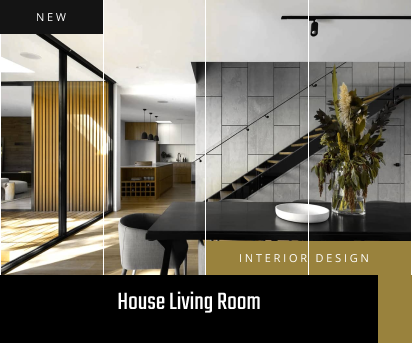
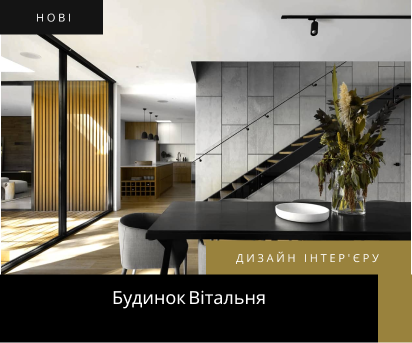
translate all sec

diff --git a/index.html b/index.html
@@ -49,7 +49,7 @@
 
                         <div class="header__desc-block desc-block">
                             <div class="desc-block__up-title">студія vantage</div>
-                            <div class="desc-block__title">Your vision, our expertise!</div>
+                            <div class="desc-block__title">Ваше бачення, наша експертиза!</div>
                             <p class="desc-block__desc">Lorem ipsum dolor sit amet, consectetur 
                                 adipiscing elit. Proin vehicula, libero vel 
                                 egestas fringilla.
@@ -72,8 +72,8 @@
     
                     <div class="menu__body">
                         <div class="menu__architecture">
-                            <span class="menu__text-arc">Architecture</span>
-                            <span class="menu__text-mw">Made With</span>
+                            <span class="menu__text-arc">Архітектура</span>
+                            <span class="menu__text-mw">Зроблена з</span>
                             <img class="menu__img-heart" src="assets/img/menu/heart.png" alt="heart">
                         </div>
     
@@ -120,23 +120,23 @@
 
                         <div class="about-us__content">
                             <div class="about-us__category">ПРО НАС</div>
-                            <div class="about-us__title">It's our job to make your home feel like it belongs to you</div>
+                            <div class="about-us__title">Наша робота - зробити так,<br> щоб ваш дім був вашим</div>
                             <div class="about-us__text">
-                                <p class="about-us__par">Lorem ipsum dolor sit amet, consectetur adipiscing elit. Proin vehicula, libero vel egestas fringilla, purus sit amet ante vel odio condimentum tortor.</p>
+                                <p class="about-us__par">Ми молода і амбітна компанія з Норвегнії. Яка вже завоювала серця багатьох клієнтів і компаній. На всі наші товари та послуги йде гарантія протягом 5 років. Ми виконуємо роботу від планування до встановлення. Робимо швидко та якісно, а головне за ціну, яка не кусається :)</p>
                                 
-                                <p class="about-us__par">Lorem ipsum dolor sit amet, consectetur adipiscing elit. Suspendisse a risus ac mauris cursus tempor at sit amet orci. Suspendisse vel laoreet mauris. Donec sit amet ante vel odio condimentum lobortis in nec ex. Curabitur varius iaculis vehicula. Vestibulum quis venenatis lorem at, suscipit vel mauris purus.</p>
+                                <p class="about-us__par">Якість наших меблів та послуг на високому рівні, що підтверджується відгуками клієнтів та документацією, і цю тенденцію ми не збираємося зупиняти. Також наш асортимент періодично поповнюється новими ескізами, а якщо не знайшли, який вам сподобався, тож ви завжди можете обговорити свої ідеї з нашими архітекторами.</p>
                             </div>
                         </div>
 
                         <div class="about-us__news news">
                             <div class="news__item">
-                                <div class="news__category">NEWS &#183; MAR 1. 2022</div>
-                                <div class="news__text">Incidunt eveniet lorem adipisci quod est quaerat</div>
+                                <div class="news__category">НОВИНИ &#183; 5 ЛИСТОПАДА. 2022</div>
+                                <div class="news__text">Отримали лiцензiю "Architecture award"!</div>
                             </div>
 
                             <div class="news__item">
-                                <div class="news__category">NEWS &#183; MAR 1. 2022</div>
-                                <div class="news__text">Excepturi nulla lorem quam velit error qui dolor</div>
+                                <div class="news__category">НОВИНИ &#183; 10 ГРУДНЯ. 2022</div>
+                                <div class="news__text">Нова колекцiя "Зимова вишня" вже в нашому магазинi</div>
                             </div>
                         </div>
 
@@ -147,35 +147,35 @@
                     <div class="statistic__container">
                         <div class="statistic__item -pos-left">
                             <div class="statistic__number">200</div>
-                            <div class="statistic__text">PROJECT</div>
+                            <div class="statistic__text">ПРОЕКТІВ</div>
                         </div>
                         <div class="statistic__item">
                             <div class="statistic__block"></div>
                         </div>
                         <div class="statistic__item -pos-right">
                             <div class="statistic__number">250</div>
-                            <div class="statistic__text">SKETCHES</div>
+                            <div class="statistic__text">ЕСКІЗІВ</div>
                         </div>
                         <div class="statistic__item">
                             <div class="statistic__block"></div>
                         </div>
                         <div class="statistic__item -pos-left">
                             <div class="statistic__number">2500</div>
-                            <div class="statistic__text">CLIENTS</div>
+                            <div class="statistic__text">КЛІЄНТІВ</div>
                         </div>
                         <div class="statistic__item -dis">
                             <div class="statistic__block"></div>
                         </div>
                         <div class="statistic__item -pos-right">
                             <div class="statistic__number">95%</div>
-                            <div class="statistic__text">LIKES</div>
+                            <div class="statistic__text">ВПОДОБАЙОК</div>
                         </div>
                         <div class="statistic__item -dis">
                             <div class="statistic__block"></div>
                         </div>
                         <div class="statistic__item">
                             <div class="statistic__number">10</div>
-                            <div class="statistic__text">AWARDS</div>
+                            <div class="statistic__text">НАГОРОД</div>
                         </div>
                     </div>
                 </div>
@@ -188,7 +188,7 @@
 
                     <div class="projects__category">ПРОЕКТИ</div>
                     <div class="projects__title">
-                        Our Projects Examples
+                        Приклади проектів
                     </div>
 
                     <div class="projects__body">

diff --git a/assets/css/style.css b/assets/css/style.css
@@ -441,7 +441,7 @@ body {
   gap: 5px;
 }
 .menu__text-arc {
-  margin-top: 2px;
+  margin-top: 1px;
 
   color: rgba(255, 255, 255, 0.75);
 
@@ -490,9 +490,9 @@ body {
 
   text-transform: capitalize;
 
-  font-family: "Teko", sans-serif;
+  font-family: "Oswald", sans-serif;
   font-weight: 400;
-  line-height: 67px;
+  line-height: 60px;
 }
 .desc-block__desc {
   color: #141414;
@@ -771,7 +771,7 @@ body {
 
   color: #141414;
 
-  font-family: "Teko";
+  font-family: "Oswald";
   font-weight: 400;
   font-style: normal;
   line-height: 1em;
@@ -821,11 +821,9 @@ body {
   line-height: 1.5454em;
 }
 .news__text {
-  text-transform: capitalize;
-
   color: #141414;
 
-  font-family: "Teko";
+  font-family: "Oswald";
   font-size: 1.444rem;
   font-weight: 400;
   font-style: normal;
@@ -881,7 +879,7 @@ body {
 
   color: #141414;
 
-  font-family: "Teko";
+  font-family: "Oswald";
   font-size: 59px;
   font-weight: 700;
   font-style: normal;
@@ -976,8 +974,9 @@ body {
   margin-bottom: 25px;
 
   text-align: center;
+  text-transform: capitalize;
 
-  font-family: "Teko", sans-serif;
+  font-family: "Oswald", sans-serif;
   font-weight: 400;
 }
 .projects__body {
@@ -1037,6 +1036,8 @@ body {
 
   width: 100%;
   margin-top: 50px;
+
+  text-align: center;
 }
 .services__link {
   padding: 20px 80px;
@@ -1485,7 +1486,7 @@ body {
 
 @media (min-width: 767px) {
   .desc-block__title {
-    font-size: calc(45px + 22 * (100vw / 1440));
+    font-size: calc(45px + 15 * (100vw / 1440));
   }
   .desc-block__desc {
     font-size: calc(15px + 2 * (100vw / 1440));
@@ -1494,13 +1495,13 @@ body {
     font-size: calc(14px + 2 * (100vw / 1440));
   }
   .about-us__title {
-    font-size: calc(33px + 20 * (100vw / 1440));
+    font-size: calc(30px + 18 * (100vw / 1440));
   }
   .about-us__par {
     font-size: calc(16px + 1 * (100vw / 1440));
   }
   .projects__title {
-    font-size: calc(39px + 21 * (100vw / 1440));
+    font-size: calc(39px + 16 * (100vw / 1440));
   }
   .services__title {
     font-size: calc(30px + 20 * (100vw / 1440));
@@ -1587,12 +1588,18 @@ body {
     position:         sticky;
     right: 0;
   }
+  .desc-block__up-title {
+    text-align: center;
+  }
+  .desc-block__title {
+    text-align: center;
+  }
   .slides-body__img {
     -o-object-fit: cover;
        object-fit: cover;
   }
   .about-us {
-    padding-top: 80px;
+    padding-top: 40px;
   }
   .about-us__content {
     padding: 30px;
@@ -1673,7 +1680,7 @@ body {
     width: 100px;
   }
   .about-us {
-    padding-top: 50px;
+    padding-top: 30px;
   }
   .about-us__category {
     text-align: center;
@@ -1747,7 +1754,7 @@ body {
 
 @media (max-width: 767px) {
   .desc-block__title {
-    font-size: calc(45px + 22 * ((100vw - 320px) / 1440));
+    font-size: calc(45px + 15 * ((100vw - 320px) / 1440));
   }
   .desc-block__desc {
     font-size: calc(15px + 2 * ((100vw - 320px) / 1440));
@@ -1756,13 +1763,13 @@ body {
     font-size: calc(14px + 2 * ((100vw - 320px) / 1440));
   }
   .about-us__title {
-    font-size: calc(33px + 20 * ((100vw - 320px) / 1440));
+    font-size: calc(30px + 18 * ((100vw - 320px) / 1440));
   }
   .about-us__par {
     font-size: calc(16px + 1 * ((100vw - 320px) / 1440));
   }
   .projects__title {
-    font-size: calc(39px + 21 * ((100vw - 320px) / 1440));
+    font-size: calc(39px + 16 * ((100vw - 320px) / 1440));
   }
   .services__title {
     font-size: calc(30px + 20 * ((100vw - 320px) / 1440));
@@ -1797,7 +1804,7 @@ body {
   .desc-block__title {
     margin: 18px 0 10px 0;
 
-    line-height: 35px;
+    line-height: 45px;
   }
   .desc-block__buttons {
     -webkit-box-orient: vertical;
@@ -1831,7 +1838,7 @@ body {
     width: 45px;
   }
   .about-us {
-    padding-top: 30px;
+    padding-top: 25px;
   }
   .about-us__content {
     padding: 0;

diff --git a/assets/scss/components/sections/_about-us.scss b/assets/scss/components/sections/_about-us.scss
@@ -4,9 +4,9 @@
 .about-us {
     padding-top: 135px;
 
-    @include lg {padding-top: 80px;}
-    @include md {padding-top: 50px;}
-    @include sm {padding-top: 30px;}
+    @include lg {padding-top: 40px;}
+    @include md {padding-top: 30px;}
+    @include sm {padding-top: 25px;}
 
     &__container {
         
@@ -30,7 +30,7 @@
         @include md {text-align: center;}
     }
     &__title {
-        font-family: 'Teko';
+        font-family: 'Oswald';
         font-style: normal;
         font-weight: 400;
         line-height: 1em;
@@ -41,7 +41,7 @@
         color: #141414;
         margin-bottom: 28px;
 
-        @include adaptive_font(53, 33);
+        @include adaptive_font(48, 30);
         @include md {text-align: center;}
     }
     &__text > *:not(:last-child) {
@@ -110,13 +110,11 @@
         @include md {text-align: center;}
     }
     &__text {
-        font-family: 'Teko';
+        font-family: 'Oswald';
         font-style: normal;
         font-weight: 400;
         font-size: 1.444rem;
         line-height: 1em;
-
-        text-transform: capitalize;
 
         color: #141414;
 
@@ -172,7 +170,7 @@
         background-color: #99823D;
     }
     &__number {
-        font-family: 'Teko';
+        font-family: 'Oswald';
         font-style: normal;
         font-weight: 700;
         font-size: 59px;

diff --git a/assets/scss/components/header/_content.scss b/assets/scss/components/header/_content.scss
@@ -41,21 +41,29 @@
     font-size: 11px;
     font-weight: 400;
     line-height: 17px;
+
+    @include lg {
+      text-align: center;
+    }
   }
   &__title {
     margin-bottom: 30px;
 
     text-transform: capitalize;
 
-    font-family: "Teko", sans-serif;
-    @include adaptive_font(67, 45);
+    font-family: "Oswald", sans-serif;
+    @include adaptive_font(60, 45);
     font-weight: 400;
-    line-height: 67px;
+    line-height: 60px;
+
+    @include lg {
+      text-align: center;
+    }
 
     @include sm {
       margin: 18px 0 10px 0;
 
-      line-height: 35px;
+      line-height: 45px;
     }
   }
   &__desc {

diff --git a/assets/scss/components/sections/_projects.scss b/assets/scss/components/sections/_projects.scss
@@ -37,9 +37,10 @@
         margin-bottom: 25px;
     
         text-align: center;
+        text-transform: capitalize;
     
-        font-family: "Teko", sans-serif;
-        @include adaptive_font(60, 39);
+        font-family: "Oswald", sans-serif;
+        @include adaptive_font(55, 39);
         font-weight: 400;
     }
     &__body {

diff --git a/assets/scss/components/sections/_service.scss b/assets/scss/components/sections/_service.scss
@@ -62,6 +62,8 @@
         justify-content: center;
         width: 100%;
         margin-top: 50px;
+
+        text-align: center;
     }
     &__link {
         background-color: #99823D;

diff --git a/assets/scss/components/header/_menu.scss b/assets/scss/components/header/_menu.scss
@@ -188,7 +188,7 @@
     }
   }
   &__text-arc {
-    margin-top: 2px;
+    margin-top: 1px;
 
     color: rgba(#ffffff, 0.75);
 
